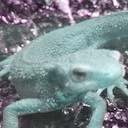
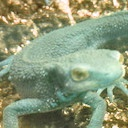
Q.5. HSV変換

diff --git a/Question_01_10/my_answer_05.py b/Question_01_10/my_answer_05.py
@@ -8,15 +8,14 @@ r = img[:, :, 2] / 255
 g = img[:, :, 1] / 255
 b = img[:, :, 0] / 255
 
-Max = r.copy()
-Min = r.copy()
+Max = np.zeros_like(r)
+Min = np.zeros_like(r)
 for i in range(len(Max)):
-    Max[i] = np.maximum(r[i], g[i], b[i])
-    Min[i] = np.minimum(r[i], g[i], b[i])
-#Max = np.maximum(r, g, b)
-#Min = np.minimum(r, g, b)
+    for j in range(len(Max[i])):
+        Max[i][j] = max(r[i][j], g[i][j], b[i][j])
+        Min[i][j] = min(r[i][j], g[i][j], b[i][j])
 
-h = r.copy()
+h = np.zeros_like(r)
 for i in range(len(h)):
     for j in range(len(h[i])):
         if Max[i][j] == Min[i][j]:
@@ -31,23 +30,17 @@ for i in range(len(h)):
 v = Max.copy()
 s = Max.copy() - Min.copy()
 
-#h = (h + 180) % 360
-h += 180
+h = (h + 180) % 360
 
-c = s.copy()
-#c = v * s
+c = s
 h_ = h / 60
 x = c * (1 - np.fabs(h_ % 2 - 1))
 
 for i in range(len(img)):
     for j in range(len(img[i])):
         tmp = (v[i][j] - c[i][j]) * np.array([1, 1, 1])
-        print(v[i][j])
-        print(c[i][j])
-        print(v[i][j]-c[i][j])
-        print(tmp)
-        if h[i][j] == None:
-            pass
+        if s[i][j] == 0:
+            tmp += np.array([0, 0, 0])
         if 0 <= h_[i][j] and h_[i][j] < 1:
             tmp += np.array([c[i][j], x[i][j], 0])
         elif h_[i][j] < 2:
@@ -58,9 +51,8 @@ for i in range(len(img)):
             tmp += np.array([0, x[i][j], c[i][j]])
         elif h_[i][j] < 5:
             tmp += np.array([x[i][j], 0, c[i][j]])
-        else:
+        elif h_[i][j] < 6:
             tmp += np.array([c[i][j], 0, x[i][j]])
-        #print(tmp)
 
         img[i,j,2] = tmp[0]
         img[i,j,1] = tmp[1]
@@ -69,4 +61,3 @@ for i in range(len(img)):
 img = img * 255
 img = img.astype(np.uint8)
 cv2.imwrite("my_answer_05.jpg", img)
-
